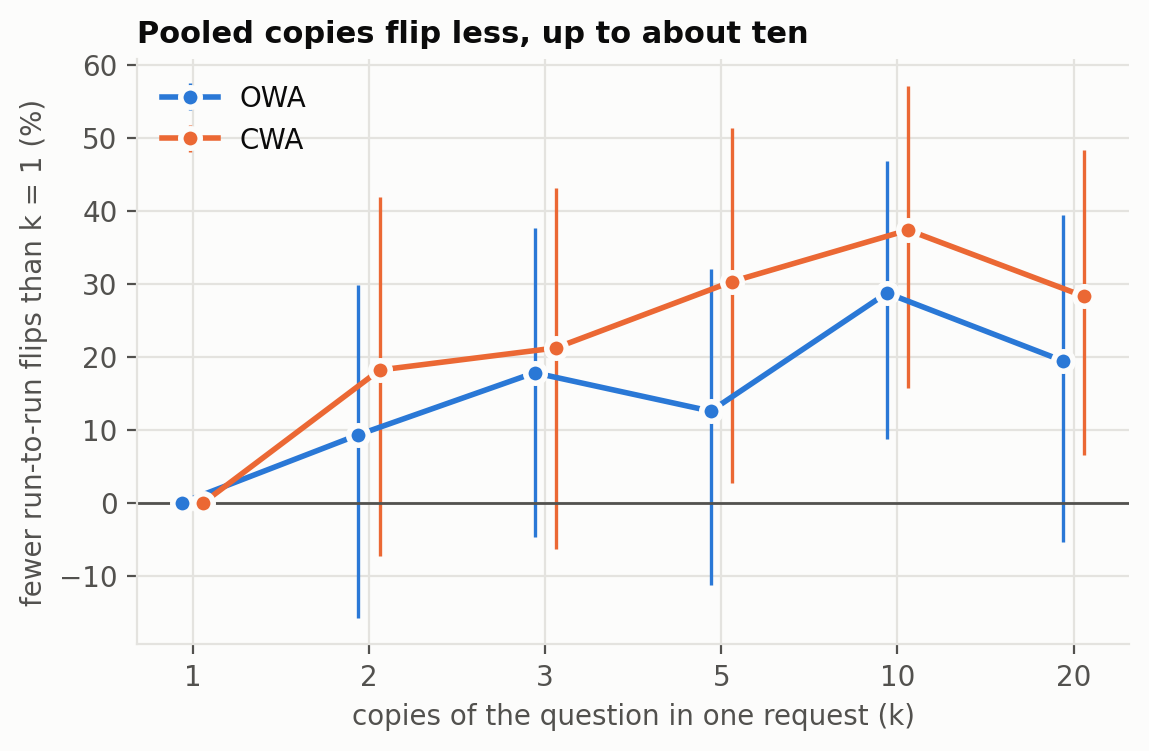
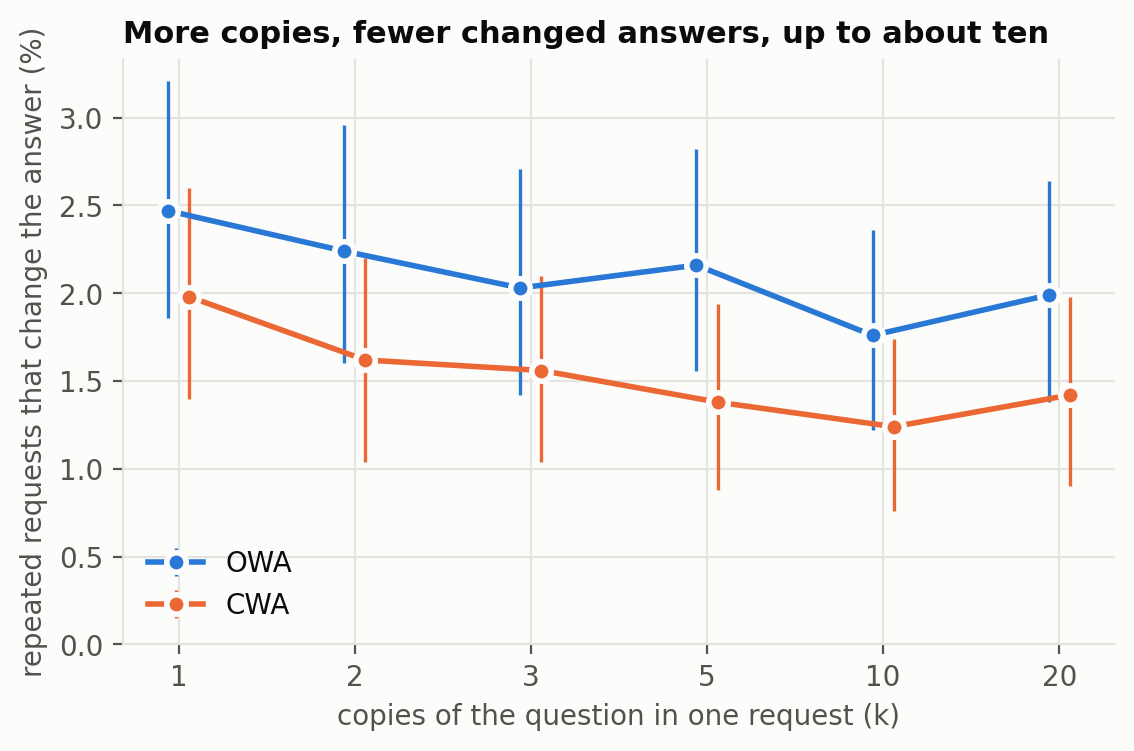
feat: flip-rate intervals, flip-rate headline chart, article figures
The headline chart now plots how often a repeated request changes the answer (lower is better) with 95%
intervals, instead of the reduction relative to k = 1. Adds scripts/blog_figures.py for the anth.us article.

diff --git a/scripts/blog_figures.py b/scripts/blog_figures.py
@@ -1,0 +1,161 @@
+"""Draw the anth.us article figures (1600x900, plus a 1200x630 preview) into docs/figures/blog/.
+
+    python scripts/blog_figures.py
+
+Same data as scripts/figures.py, in the site's chart style: a large title and subtitle, direct labels, the
+categorical blue and orange.
+"""
+import sys
+from collections import Counter
+from pathlib import Path
+
+import matplotlib
+
+matplotlib.use("Agg")
+import matplotlib.pyplot as plt  # noqa: E402
+
+ROOT = Path(__file__).resolve().parents[1]
+sys.path.insert(0, str(ROOT / "scripts"))
+sys.path.insert(0, str(ROOT))
+from figures import INK, INK_2, GRID, KS, SERIES, SURFACE, TASKS, records, stability_rows  # noqa: E402
+from decision_averaging.pooled import mean_probabilities, pool, slots  # noqa: E402
+
+OUT = ROOT / "docs" / "figures" / "blog"
+NAMES = {"OWA": "true / false / unknown", "CWA": "true / false"}
+
+plt.rcParams.update({"font.size": 13, "axes.titlesize": 13, "axes.labelsize": 13, "legend.fontsize": 13})
+
+
+def frame(size=(8, 4.5)):
+    fig, ax = plt.subplots(figsize=size)
+    fig.subplots_adjust(left=0.11, right=0.97, top=0.78, bottom=0.14)
+    return fig, ax
+
+
+def heading(fig, title, subtitle):
+    fig.text(0.045, 0.94, title, fontsize=21, fontweight="bold", color=INK, va="top")
+    fig.text(0.045, 0.865, subtitle, fontsize=13, color=INK_2, va="top")
+
+
+def save(fig, name, dpi=200):
+    OUT.mkdir(parents=True, exist_ok=True)
+    fig.savefig(OUT / name, dpi=dpi, facecolor=SURFACE)
+    plt.close(fig)
+    print(f"wrote docs/figures/blog/{name}")
+
+
+def rows_by_k(task, kind="stability"):
+    rows = stability_rows(task)
+    if kind == "stability_paired":
+        return {int(r["arm"].rsplit("k", 1)[1]): r for r in rows if r["kind"] == kind and r["rule"] == "mean"}
+    if kind == "stability_cost":
+        return {r["k"]: r for r in rows if r["kind"] == kind}
+    return {r["k"]: r for r in rows if r["kind"] == kind and r["rule"] == "mean"}
+
+
+def flips(name, size=(8, 4.5), dpi=200, preview=False):
+    fig, ax = frame(size)
+    positions = {k: i for i, k in enumerate(KS)}
+    for task, (label, _) in TASKS.items():
+        rows = rows_by_k(task)
+        x = [positions[k] + (-0.07 if label == "OWA" else 0.07) for k in KS]
+        y = [100 * rows[k]["pair_flip_rate"] for k in KS]
+        err = [[100 * (rows[k]["pair_flip_rate"] - rows[k]["pair_flip_rate_low"]) for k in KS],
+               [100 * (rows[k]["pair_flip_rate_high"] - rows[k]["pair_flip_rate"]) for k in KS]]
+        ax.errorbar(x, y, yerr=None if preview else err, color=SERIES[label], lw=3, marker="o", ms=10,
+                    elinewidth=1.4, mec=SURFACE, mew=2.5, label=f"{label} ({NAMES[label]})")
+    if not preview:
+        owa, cwa = rows_by_k("proofwriter-owa", "stability_paired"), rows_by_k("proofwriter-cwa", "stability_paired")
+        ax.annotate(f"Ten copies: {100 * owa[10]['flip_reduction']:.0f}% (OWA) and "
+                    f"{100 * cwa[10]['flip_reduction']:.0f}% (CWA) fewer changed\n"
+                    "answers than one copy, compared on the same problems",
+                    xy=(positions[10], 2.4), xytext=(positions[2] + 0.3, 3.3), fontsize=12, color=INK_2,
+                    ha="left", va="center", arrowprops={"arrowstyle": "-", "color": INK_2, "lw": 1})
+    ax.set_xticks(range(len(KS)), [str(k) for k in KS])
+    ax.set_ylim(0, 3.6)
+    ax.set_yticks([0, 1, 2, 3], ["0%", "1%", "2%", "3%"])
+    ax.set_xlabel("Copies of the question in one request")
+    ax.set_ylabel("Repeats that change the answer")
+    ax.legend(loc="lower left", handlelength=1.6)
+    heading(fig, "How often a repeat changes Jev's answer",
+            "Copies pooled in one request, 1,000 logic problems, five runs" +
+            ("" if preview else ", 95% intervals"))
+    save(fig, name, dpi)
+
+
+def accuracy():
+    fig, ax = frame()
+    positions = {k: i for i, k in enumerate(KS)}
+    for task, (label, _) in TASKS.items():
+        rows = rows_by_k(task)
+        y = [100 * rows[k]["accuracy"] for k in KS]
+        ax.plot([positions[k] for k in KS], y, color=SERIES[label], lw=3, marker="o", ms=10, mec=SURFACE,
+                mew=2.5)
+        ax.annotate(f"{label}: {min(y):.1f}% to {max(y):.1f}%", (positions[20], y[-1]), xytext=(-8, 14),
+                    textcoords="offset points", ha="right", color=INK_2, fontsize=12)
+    ax.set_xticks(range(len(KS)), [str(k) for k in KS])
+    ax.set_ylim(70, 100)
+    ax.set_yticks([70, 80, 90, 100], ["70%", "80%", "90%", "100%"])
+    ax.set_xlabel("Copies of the question in one request")
+    ax.set_ylabel("Accuracy")
+    heading(fig, "More copies, same accuracy",
+            "Share of the 1,000 logic problems answered correctly, averaged over five runs")
+    save(fig, "jev-pooled-accuracy.png")
+
+
+def close_calls():
+    task, (_, options) = "proofwriter-owa", TASKS["proofwriter-owa"]
+    by_k = {k: records(task, k) for k in (1, 10)}
+    base = by_k[1]
+    ids = sorted(set.intersection(*(set(rows) for recs in by_k.values() for rows in recs.values())))
+
+    def flip(i):
+        a = [slots(base[r][i])[0]["choice"] for r in base]
+        return sum(x != y for n, x in enumerate(a) for y in a[n + 1:])
+
+    chosen = sorted(ids, key=lambda i: (-flip(i), i))[:8]
+    fig, axes = plt.subplots(1, 2, figsize=(8, 4.5), sharey=True)
+    fig.subplots_adjust(left=0.05, right=0.97, top=0.74, bottom=0.14, wspace=0.08)
+    for ax, k in zip(axes, (1, 10)):
+        for y, i in enumerate(chosen):
+            target = Counter(pool(slots(base[r][i]), options, "mean") for r in base).most_common(1)[0][0]
+            values = [mean_probabilities(slots(by_k[k][r][i]), options)[target] for r in by_k[k]]
+            ax.plot([min(values), max(values)], [y, y], color=GRID, lw=5, solid_capstyle="round", zorder=1)
+            ax.scatter(values, [y] * len(values), s=55, color=SERIES["OWA"], zorder=2, lw=1.5, ec=SURFACE)
+        ax.set_title("One copy" if k == 1 else "Ten copies", loc="left", fontsize=14)
+        ax.set_xlim(0.2, 0.8)
+        ax.set_xticks([0.3, 0.5, 0.7], ["0.3", "0.5", "0.7"])
+        ax.grid(axis="y", visible=False)
+        ax.tick_params(axis="y", left=False, labelleft=False)
+    fig.text(0.51, 0.03, "Probability for the item's usual answer, one dot per run", ha="center", color=INK_2)
+    heading(fig, "Close calls stay close calls",
+            "The eight least stable problems, five runs each. Ten copies pull the runs together.")
+    save(fig, "jev-pooled-close-calls.png")
+
+
+def cost():
+    fig, ax = frame()
+    for task, (label, _) in TASKS.items():
+        rows, spend = rows_by_k(task), rows_by_k(task, "stability_cost")
+        x = [spend[k]["input_tokens_mean"] for k in KS]
+        y = [100 * rows[k]["pair_flip_rate"] for k in KS]
+        ax.plot(x, y, color=SERIES[label], lw=3, marker="o", ms=10, mec=SURFACE, mew=2.5, label=label)
+        if label == "OWA":
+            for k, xi, yi in zip(KS, x, y):
+                ax.annotate(f"k={k}", (xi, yi), xytext=(0, 12), textcoords="offset points", ha="center",
+                            color=INK_2, fontsize=11)
+    ax.set_ylim(0, 3.0)
+    ax.set_yticks([0, 1, 2, 3], ["0%", "1%", "2%", "3%"])
+    ax.set_xlabel("Input tokens per request")
+    ax.set_ylabel("Repeats that change the answer")
+    ax.legend(loc="lower right")
+    heading(fig, "Each copy costs about 160 tokens", "Changed answers against the input tokens a request bills")
+    save(fig, "jev-pooled-cost.png")
+
+
+if __name__ == "__main__":
+    flips("jev-pooled-flips.png")
+    flips("jev-pooled-preview.png", size=(8, 4.2), dpi=150, preview=True)
+    accuracy()
+    close_calls()
+    cost()

diff --git a/scripts/figures.py b/scripts/figures.py
@@ -1,9 +1,10 @@
-"""Draw the study 3 figures into docs/figures/ from the committed records (offline, deterministic).
+"""Draw the study 3 figures into docs/figures/ from the committed records (offline, deterministic). The anth.us
+article versions come from scripts/blog_figures.py.
 
     python scripts/figures.py
 
-1. stability-vs-k.png: fewer run-to-run flips than k = 1 (relative reduction in pair flip rate) against k, both
-   tasks, paired 95% intervals (from studies/*-stability.jsonl).
+1. stability-vs-k.png: the chance that a repeated request changes the pooled answer (pair flip rate) against k,
+   both tasks, 95% intervals (from studies/*-stability.jsonl).
 2. stability-vs-tokens.png: pair flip rate against input tokens per request.
 3. copies-within-request.png: every copy's probability for its answer inside one k = 20 request, for stable and
    unstable OWA items.
@@ -75,21 +76,20 @@ def stability_vs_k():
     fig, ax = plt.subplots(figsize=(6.4, 3.8))
     positions = {k: i for i, k in enumerate(KS)}
     for task, (label, _) in TASKS.items():
-        rows = {int(r["arm"].rsplit("k", 1)[1]): r for r in stability_rows(task)
-                if r["kind"] == "stability_paired" and r["rule"] == "mean"}
-        ks = [1] + [k for k in KS if k in rows]
+        rows = {r["k"]: r for r in stability_rows(task) if r["kind"] == "stability" and r["rule"] == "mean"}
+        ks = [k for k in KS if k in rows]
         x = [positions[k] + (-0.06 if label == "OWA" else 0.06) for k in ks]
-        y = [0.0] + [100 * rows[k]["flip_reduction"] for k in ks[1:]]
-        err = [[0.0] + [100 * (rows[k]["flip_reduction"] - rows[k]["flip_reduction_low"]) for k in ks[1:]],
-               [0.0] + [100 * (rows[k]["flip_reduction_high"] - rows[k]["flip_reduction"]) for k in ks[1:]]]
+        y = [100 * rows[k]["pair_flip_rate"] for k in ks]
+        err = [[100 * (rows[k]["pair_flip_rate"] - rows[k]["pair_flip_rate_low"]) for k in ks],
+               [100 * (rows[k]["pair_flip_rate_high"] - rows[k]["pair_flip_rate"]) for k in ks]]
         ax.errorbar(x, y, yerr=err, color=SERIES[label], lw=2, marker="o", ms=7, capsize=0, elinewidth=1.2,
                     mec=SURFACE, mew=2, label=label)
-    ax.axhline(0, color=INK_2, lw=1)
     ax.set_xticks(range(len(KS)), [str(k) for k in KS])
+    ax.set_ylim(bottom=0)
     ax.set_xlabel("copies of the question in one request (k)")
-    ax.set_ylabel("fewer run-to-run flips than k = 1 (%)")
-    ax.set_title("Pooled copies flip less, up to about ten")
-    ax.legend(loc="upper left")
+    ax.set_ylabel("repeated requests that change the answer (%)")
+    ax.set_title("More copies, fewer changed answers, up to about ten")
+    ax.legend(loc="lower left")
     save(fig, "stability-vs-k.png")
 
 

diff --git a/decision_averaging/stability.py b/decision_averaging/stability.py
@@ -7,7 +7,8 @@ this scores, per arm and pooling rule:
 - ``agreement`` and ``ac1``: Gwet's multi-rater percent agreement and AC1 across all runs (Gwet 2008), with a
   95% percentile bootstrap interval over items (seed 0, 1,000 resamples).
 - ``changed``: items whose pooled answer is not the same in every run; ``pair_flip_rate``: the share of run
-  pairs that disagree, averaged over items.
+  pairs that disagree, averaged over items (the chance that a repeated request changes the answer), with a 95%
+  bootstrap interval.
 - ``probability_sd``: per item, the standard deviation across runs of the pooled probability of the item's
   most common answer, averaged over items.
 - accuracy (mean over runs), input tokens and latency per request.
@@ -108,6 +109,7 @@ def analyse(task: Task, *, root: Path = ROOT) -> List[dict]:
             flips = [sum(a != b for a, b in itertools.combinations(r, 2)) / (len(r) * (len(r) - 1) / 2)
                      for r in ratings]
             flip_items[(arm, rule)] = flips
+            flip_boot = [sum(flips[j] for j in draw) / len(draw) for draw in draws]
             sds = []
             for i, r in zip(common, ratings):
                 modal = Counter(r).most_common(1)[0][0]
@@ -120,7 +122,8 @@ def analyse(task: Task, *, root: Path = ROOT) -> List[dict]:
             row = {"kind": "stability", "task": task.slug, "arm": arm, "k": arm_k(arm), "rule": rule,
                    "runs": sorted(runs), "n": len(common), **whole, "ac1_low": _interval(boot)[0],
                    "ac1_high": _interval(boot)[1], "changed": sum(changed),
-                   "pair_flip_rate": statistics.mean(flips),
+                   "pair_flip_rate": statistics.mean(flips), "pair_flip_rate_low": _interval(flip_boot)[0],
+                   "pair_flip_rate_high": _interval(flip_boot)[1],
                    "probability_sd": statistics.mean(sds) if sds else None, "accuracy": accuracy}
             if near_tie is not None and sum(changed):
                 row["changed_near_tie_share"] = sum(c and near_tie[i] for c, i in zip(changed, common)) / sum(changed)

diff --git a/docs/findings.md b/docs/findings.md
@@ -24,7 +24,10 @@ when the same request is sent again (study 3):
 run-to-run flips by about a third on both tasks, and it is the only k whose interval excludes zero on both.
 Twenty copies did no better than ten.
 
-![Fewer flips than one copy, by k](figures/stability-vs-k.png)
+![How often a repeated request changes the answer, by k](figures/stability-vs-k.png)
+
+Each point's interval reflects how much that rate varies on its own; the comparison with k = 1 in the table is
+tighter because it is made item by item.
 
 ## Noise, not bias
 

diff --git a/README.md b/README.md
@@ -20,7 +20,7 @@ This project measures whether it pays.
   (OWA 29% [9, 47], CWA 37% [16, 57]) for 3.8× the input tokens. Twenty copies did no better: about half of the
   run-to-run noise is shared by every copy in a request, so averaging cannot remove it.
 
-![Fewer flips than one copy, by k](docs/figures/stability-vs-k.png)
+![How often a repeated request changes the answer, by k](docs/figures/stability-vs-k.png)
 
 ## Design
 
